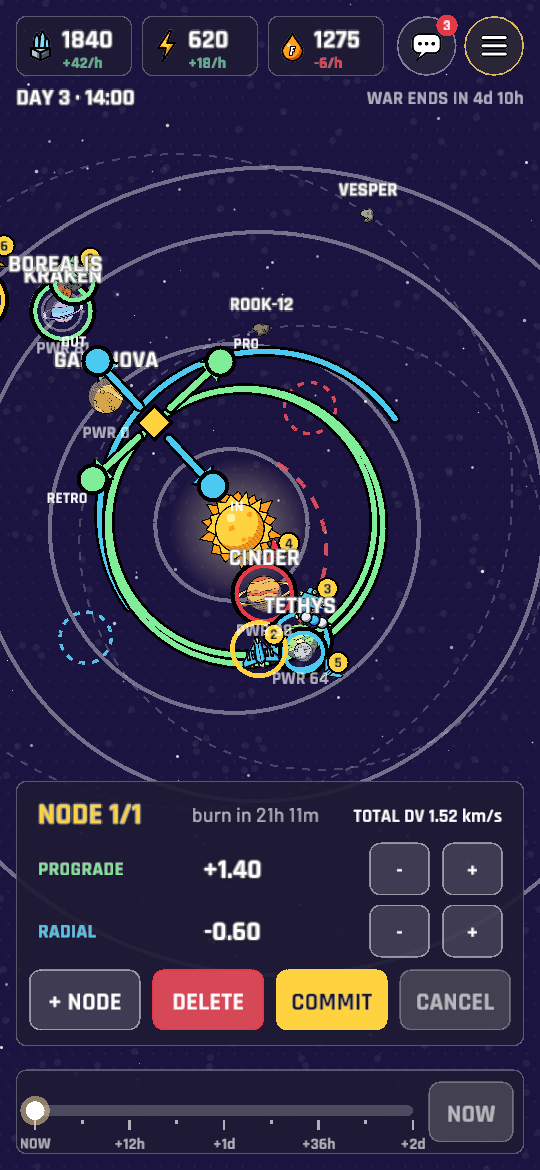
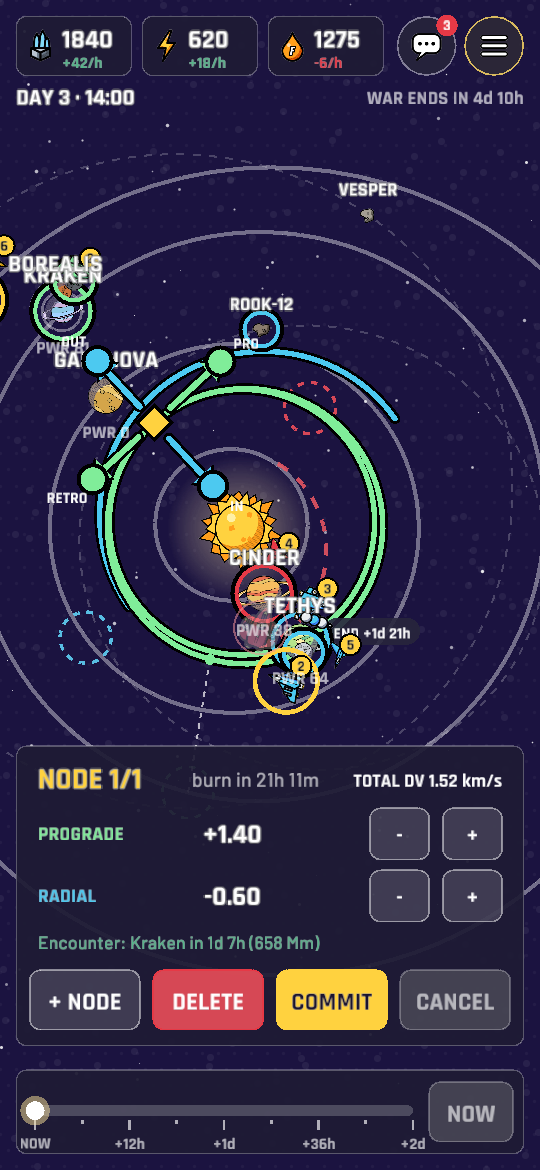
ui: maneuver-node projection (end marker, closest approach / encounter, outcome line)
Backend::node_outcome (default None → derived from preview_nodes in the UI).

diff --git a/crates/ui/src/game/panels.rs b/crates/ui/src/game/panels.rs
@@ -1000,10 +1000,93 @@ const HANDLES: [(Handle, Color, &str); 4] = [
     (Handle::RadialIn, hex(0x4cc9f0), "IN"),
 ];
 
-pub fn nodes_world(ne: &NodeEdit, be: &dyn Backend, view: &GameView, cam: &Camera, _t: f64) {
+/// UI-side projection from the preview path: end point, plus the closest approach to any body
+/// (scored by distance / SOI so a near pass of a moon beats a far pass of a giant).
+/// Only the path after `after` (the first burn) counts, and a body we're still inside the SOI of at
+/// that point (where we're leaving from) only counts once we've left it.
+pub fn derive_outcome(be: &dyn Backend, view: &GameView, tr: &Trajectory, after: f64) -> Option<NodeOutcome> {
+    let &(end_t, end_pos) = tr.points.last()?;
+    let mut best: Option<(f64, Encounter)> = None;
+    for b in view.bodies.iter().filter(|b| b.kind != BodyKind::Star) {
+        let soi = b.soi.max(b.radius * 3.0).max(1.0);
+        let mut leaving = true;
+        for &(t, p) in tr.points.iter().filter(|q| q.0 >= after) {
+            let c = be.body_pos(b.id, t);
+            let d = (p[0] - c[0]).hypot(p[1] - c[1]);
+            if leaving {
+                if d <= soi {
+                    continue;
+                }
+                leaving = false;
+            }
+            let score = d / soi;
+            if best.as_ref().is_none_or(|(s, _)| score < *s) {
+                best = Some((score, Encounter { body: b.id, t, distance: d, inside_soi: d <= soi }));
+            }
+        }
+    }
+    // Only worth mentioning if it comes reasonably close.
+    let encounter = best.filter(|(s, _)| *s < 6.0).map(|b| b.1);
+    let captured = encounter.filter(|e| e.inside_soi && (end_t - e.t).abs() < 1.0).map(|e| e.body);
+    Some(NodeOutcome { end_t, end_pos, captured, encounter, fuel_left: None })
+}
+
+fn fmt_km(km: f64) -> String {
+    if km >= 1.0e6 {
+        format!("{:.1} Gm", km / 1.0e6)
+    } else if km >= 1000.0 {
+        format!("{:.0} Mm", km / 1000.0)
+    } else {
+        format!("{km:.0} km")
+    }
+}
+
+/// One-line summary for the node sheet.
+fn outcome_line(o: &NodeOutcome, view: &GameView) -> (String, Color) {
+    let name = |id: BodyId| view.body(id).map(|b| b.name.clone()).unwrap_or_default();
+    let mut s = match (o.captured, o.encounter) {
+        (Some(b), _) => (format!("Ends in orbit of {} in {}", name(b), fmt_dur(o.end_t - view.now)), GOOD),
+        (None, Some(e)) if e.inside_soi => (format!("Encounter: {} in {} ({})", name(e.body), fmt_dur(e.t - view.now), fmt_km(e.distance)), GOOD),
+        (None, Some(e)) => (format!("Closest: {} {} in {}", name(e.body), fmt_km(e.distance), fmt_dur(e.t - view.now)), ACCENT),
+        (None, None) => (format!("No encounters · path ends in {}", fmt_dur(o.end_t - view.now)), MUTED),
+    };
+    if let Some(f) = o.fuel_left {
+        s.0 += &format!(" · fuel left {f:.0}");
+        if f < 0.0 {
+            s.1 = DANGER;
+        }
+    }
+    s
+}
+
+pub fn nodes_world(ne: &NodeEdit, outcome: Option<&NodeOutcome>, be: &dyn Backend, view: &GameView, cam: &Camera, _t: f64) {
     if let Some(tr) = &ne.preview {
         let pts = poly(cam, tr, view.now);
         cel::inked_path(&pts, 4.0 * s(), hex(0x80ed99));
+    }
+    if let Some(o) = outcome {
+        let col = hex(0x80ed99);
+        // Closest approach: the body where it will be then, and a tie line to the ship.
+        if let Some(e) = o.encounter {
+            if let (Some(b), Some(p)) = (view.body(e.body), ne.preview.as_ref().and_then(|tr| tr.sample(e.t))) {
+                let bc = cam.to_screen(be.body_pos(e.body, e.t));
+                let sp = cam.to_screen(p);
+                let rr = map::body_radius_px(b, cam) + 6.0 * s();
+                let ring: Vec<Vec2> = (0..=40).map(|i| bc + Vec2::from_angle(i as f32 / 40.0 * std::f32::consts::TAU) * rr).collect();
+                cel::dashed_path(&ring, 2.0 * s(), 5.0 * s(), if e.inside_soi { col } else { ACCENT });
+                cel::dashed_path(&[sp, bc], 1.5 * s(), 4.0 * s(), alpha(PAPER, 0.6));
+                draw_circle(sp.x, sp.y, 4.0 * s(), if e.inside_soi { col } else { ACCENT });
+            }
+        }
+        // Where it ends up.
+        let end = cam.to_screen(o.end_pos);
+        let q = ne.preview.as_ref().and_then(|tr| tr.sample(o.end_t - 300.0)).map(|p| cam.to_screen(p)).unwrap_or(end);
+        cel::ship(end, end - q, 9.0 * s(), alpha(PAPER, 0.75));
+        let label = format!("END +{}", fmt_dur(o.end_t - view.now));
+        let w = measure(&label, FontKind::Title, 12.0).x + 14.0 * s();
+        let r = Rect::new(end.x + 10.0 * s(), end.y - 22.0 * s(), w, 20.0 * s());
+        cel::round_rect(r, r.h / 2.0, alpha(PANEL, 0.9));
+        text(&label, r.center().x, r.center().y + s(), 12.0, PAPER, FontKind::Title, Align::Center);
     }
     for (i, n) in ne.nodes.iter().enumerate() {
         let p = ne.preview.as_ref().and_then(|tr| tr.sample(n.t)).or_else(|| be.ship_pos(ne.ship, n.t));
@@ -1103,7 +1186,15 @@ fn node_sheet(g: &mut GameScreen, inp: &mut Input, be: &dyn Backend, view: &Game
         ne.preview = be.preview_nodes(ne.ship, &ne.nodes);
         ne.dirty = false;
     }
-    let r = sheet_rect(196.0);
+    // Projection follows the nodes live while dragging.
+    if g.node_outcome.as_ref().is_none_or(|(s, n, _)| *s != ne.ship || *n != ne.nodes) {
+        let o = be.node_outcome(ne.ship, &ne.nodes).or_else(|| {
+            let after = ne.nodes.iter().map(|n| n.t).fold(f64::MAX, f64::min).max(view.now);
+            ne.preview.as_ref().and_then(|tr| derive_outcome(be, view, tr, after))
+        });
+        g.node_outcome = o.map(|o| (ne.ship, ne.nodes.clone(), o));
+    }
+    let r = sheet_rect(222.0);
     inp.block(r);
     cel::panel(r, PANEL);
     let Some(n) = ne.nodes.get(ne.sel).copied() else {
@@ -1116,6 +1207,10 @@ fn node_sheet(g: &mut GameScreen, inp: &mut Input, be: &dyn Backend, view: &Game
     text(&format!("TOTAL DV {:.2} km/s", total), r.x + r.w - 16.0 * s(), r.y + 25.0 * s(), 14.0, PAPER, FontKind::Title, Align::Right);
 
     let k = node_frame(&ne, be, g.cam.as_ref().unwrap()).map(|f| f.k * 10.0).unwrap_or(0.1);
+    if let Some((_, _, o)) = &g.node_outcome {
+        let (line, col) = outcome_line(o, view);
+        text(&line, r.x + 16.0 * s(), r.y + 146.0 * s(), 13.0, col, FontKind::Body, Align::Left);
+    }
     let rows = [("PROGRADE", n.prograde, hex(0x80ed99)), ("RADIAL", n.radial, hex(0x4cc9f0))];
     for (i, (label, v, col)) in rows.iter().enumerate() {
         let y = r.y + 46.0 * s() + i as f32 * 46.0 * s();

diff --git a/crates/ui/src/game/mod.rs b/crates/ui/src/game/mod.rs
@@ -77,6 +77,8 @@ pub struct GameScreen {
     pub body_tab: usize,
     /// Upgrade/ship-class detail sheet shown over the planet panel.
     pub detail: Option<details::Detail>,
+    /// Node-editor projection for (ship, nodes) — recomputed when the nodes change.
+    pub node_outcome: Option<(ShipId, Vec<ManeuverNode>, NodeOutcome)>,
     /// Resource breakdown sheet (0 matter, 1 energy, 2 fuel) opened from the top bar.
     pub res_open: Option<usize>,
     /// In-game menu popover open.
@@ -119,6 +121,7 @@ impl GameScreen {
             menu_open: false,
             detail: None,
             res_open: None,
+            node_outcome: None,
             research_open: false,
             research_branch: 0,
             stations_for: None,
@@ -393,7 +396,7 @@ impl GameScreen {
     fn draw_mode_world(&mut self, be: &dyn Backend, view: &GameView, cam: &Camera, t: f64) {
         match &self.mode {
             Mode::Plan(plan) => panels::plan_world(plan, be, view, cam, t),
-            Mode::Nodes(ne) => panels::nodes_world(ne, be, view, cam, t),
+            Mode::Nodes(ne) => panels::nodes_world(ne, self.node_outcome.as_ref().map(|o| &o.2), be, view, cam, t),
             Mode::Impact(ip) => panels::impact_world(ip, be, view, cam, t),
             _ => {}
         }

diff --git a/crates/ui/src/model.rs b/crates/ui/src/model.rs
@@ -223,6 +223,30 @@ pub enum Focus {
     Ship(ShipId),
 }
 
+/// Where a ship ends up with a set of manual nodes (node editor projection).
+#[derive(Clone, Debug)]
+pub struct NodeOutcome {
+    /// End of the predicted path (horizon, capture or impact).
+    pub end_t: f64,
+    pub end_pos: [f64; 2],
+    /// Captured into orbit of this body at the end, if the prediction says so.
+    pub captured: Option<BodyId>,
+    /// Closest approach to the most relevant body along the path.
+    pub encounter: Option<Encounter>,
+    /// Fuel left after all burns (None = backend can't tell).
+    pub fuel_left: Option<f64>,
+}
+
+#[derive(Clone, Copy, Debug)]
+pub struct Encounter {
+    pub body: BodyId,
+    pub t: f64,
+    /// km
+    pub distance: f64,
+    /// Passes inside the body's sphere of influence.
+    pub inside_soi: bool,
+}
+
 /// Preview of pushing an owned asteroid into a planet (`Backend::plan_impact_async`).
 #[derive(Clone, Debug)]
 pub struct ImpactPreview {

diff --git a/crates/ui/src/backend.rs b/crates/ui/src/backend.rs
@@ -91,6 +91,11 @@ pub trait Backend {
     fn plan_impact_async(&self, _asteroid: BodyId, _target: BodyId) -> ImpactPoll {
         ImpactPoll::Done(None)
     }
+    /// Summary of where the ship ends up with these nodes (capture, closest approach, fuel left).
+    /// Default None: the UI derives end point + closest approach from `preview_nodes` itself.
+    fn node_outcome(&self, _ship: ShipId, _nodes: &[ManeuverNode]) -> Option<NodeOutcome> {
+        None
+    }
     /// Trajectory the ship would fly with these manual nodes (for the node editor preview).
     fn preview_nodes(&self, ship: ShipId, nodes: &[ManeuverNode]) -> Option<Trajectory>;
 

diff --git a/COORD.md b/COORD.md
@@ -789,3 +789,17 @@ Done per core's conditions:
   `draw` when `view.lobby` is Some (+2 fields). `BackendEvent::Lobby` → game screen; old `screens::Lobby` and
   `Screen::Lobby` removed. Demo scenes `lobby` / `lobby_guest`. uitests ui_flow updated (16/16 pass).
 Core: please merge when convenient (restart kepler-server afterwards; no save-format change). — lobby thread
+
+### UI → core + flyby thread: node-editor projection (2026-10-26)
+Jonas: "for the maneuver node show a projection for where the ship will end up". This is now in ui on master.
+While editing nodes the map shows the END marker (+time), the closest approach (ghost ring of the body at that
+time, tie line), and the node sheet says "Ends in orbit of X / Encounter: X in 1d 7h (658 Mm) / Closest: ...".
+- New `Backend::node_outcome(ship, nodes) -> Option<NodeOutcome { end_t, end_pos, captured, encounter:
+  Option<Encounter{body, t, distance, inside_soi}>, fuel_left: Option<f64> }>` (default None). With the default,
+  the UI derives end + closest approach from `preview_nodes` itself (ignores the SOI it's leaving from).
+- **Core (client):** please implement it from `sim::traj::predict`: `captured` = the dest body when the path ends
+  captured, `fuel_left` = fuel after the burns via `fuel_for_with` (negative = can't afford, shown red), and
+  `encounter` = the first SOI entry (or closest pass) after the first burn. It's called only when the nodes change.
+- **Flyby thread:** your `m::Trajectory.flybys` markers fit right in. Draw them in `panels::nodes_world` next to the
+  END marker (same pill style: `round_rect` PANEL + Title 12dp), e.g. "FLYBY IXVO +3.1 km/s".
+— UI thread
